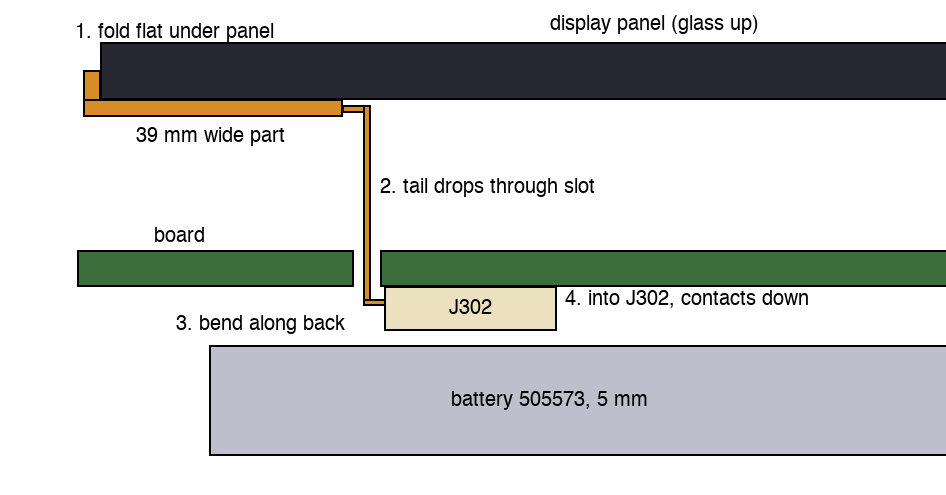
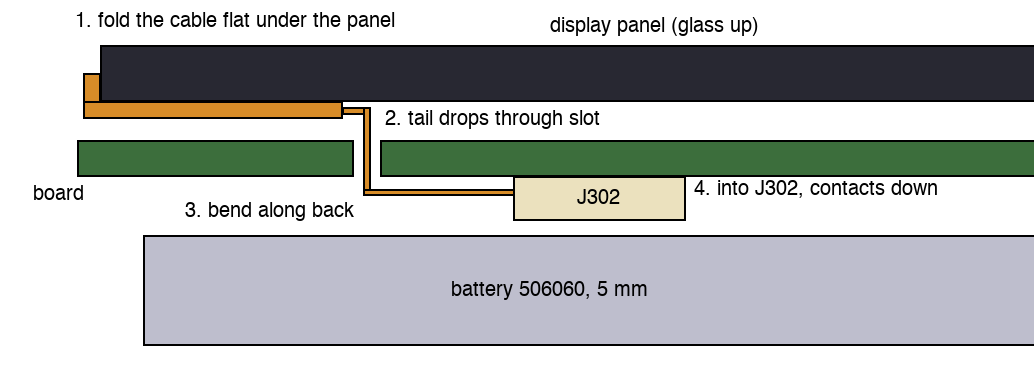
docs(hardware): describe the thinner layout, battery and reflow parts

diff --git a/hardware/README.md b/hardware/README.md
@@ -7,11 +7,11 @@ and pass ERC and DRC with schematic parity. Not yet fabricated.
 
 | Sheet | Contents |
 | --- | --- |
-| Power | USB4105 USB-C (5.1k CC pull-downs, USBLC6 ESD), BQ24074 1S LiPo charger with power path (1 A charge, 1.5 A input), soft power latch, TLV75533 3.3 V, TPS628438 buck to 2.0 V feeding two TPS7A2018 1.8 V LDOs (digital `+1V8`, analog `+1V8A`), battery solder pads plus an optional side-entry JST-PH |
+| Power | USB4105 USB-C (5.1k CC pull-downs, USBLC6 ESD), BQ24074 1S LiPo charger with power path (1 A charge, 1.5 A input), soft power latch, TLV75533 3.3 V, TLV62569 buck to 2.0 V feeding two TPS7A2018 1.8 V LDOs (digital `+1V8`, analog `+1V8A`), battery solder pads plus an optional side-entry JST-PH |
 | MCU | STM32U575ZIT6Q (SMPS variant, 2.2 uH on VLXSMPS), 16 MHz crystal for USB DFU, decoupling, BOOT0 pull-down, NRST cap, battery and VBUS sense dividers, ten buttons |
 | Peripherals | Hirose DM3AT microSD on SDMMC1 4-bit with 47k pull-ups, Newhaven NHD-2.4-240320AF-CSXP 2.4in IPS panel on a 40-pin FH12 on the back, 2N7002 backlight switch |
 | Wireless | ESP32-MINI-1U (Bluetooth Classic A2DP, BLE, 2.4 GHz WiFi) on the back, own TLV75733 3.3 V regulator switched by the MCU, U.FL to a stick-on antenna |
-| Audio | Two CS43131 (I2C 0x30 and 0x31), shared 22.5792 MHz 1.8 V oscillator for MCLK, PCA9306 I2C shifter, TXS0102 shifters on I2S, three TMUX4827 output switches, SJ1-3524N 3.5 mm and PJ-4450 4.4 mm jacks |
+| Audio | Two CS43131 (I2C 0x30 and 0x31), shared 22.5792 MHz 1.8 V oscillator for MCLK, PCA9306 I2C shifter, TXS0102 shifters on I2S, four TMUX4819 output switches, SJ1-3524N 3.5 mm and PJ-4450 4.4 mm jacks on the back |
 
 ## Pin map
 
@@ -35,6 +35,7 @@ Kept as close to the current firmware (`src/main.rs`) as possible.
 | DAC reset control | PE3 | inverted through Q401: low releases reset, high or floating holds it |
 | I2C1 SCL SDA | PB8 PB9 | |
 | JACK_SEL | PG0 | low = 3.5 mm |
+| Output switch enable | PG3 | SW_EN, high turns on all four TMUX4819, low mutes both jacks |
 | Jack detect 3.5 mm, 4.4 mm | PG1, PG2 | |
 | USB DM DP, VBUS sense | PA11 PA12, PA9 | |
 | Battery sense | PA0 | VBAT / 2 |
@@ -59,7 +60,8 @@ plugged in, firmware should turn the screen off and sleep.
 
 The BQ24074 runs the system from USB and charges the battery at the same
 time (R103 890 ohm sets 1.0 A, R105 1.1k sets a 1.5 A input limit, R111 10k
-stands in for a thermistor). The TPS628438 buck turns the battery into 2.0 V,
+stands in for a thermistor). The TLV62569 buck (232k/100k divider, 2.2 uH)
+turns the battery into 2.0 V,
 and both 1.8 V LDOs run from that, so they only drop 0.2 V instead of 2 V.
 
 ### Battery
@@ -72,31 +74,35 @@ and both 1.8 V LDOs run from that, so they only drop 0.2 V instead of 2 V.
 
 Screen off, 0.1 mW per channel into wired headphones, from datasheet typicals
 (Cirrus Table 3-19 for the DACs, Espressif's measured 101 mA for ESP32 A2DP
-streaming). The screen adds about 36 mA. Bluetooth sets the battery: 2.5 Ah
-gives about 20 h on Bluetooth, 62 h balanced and 105 h on 3.5 mm, and charges
-in about 2.5 to 3 hours at 1 A. Measure a real board before buying cells in
-bulk.
+streaming). The screen adds about 36 mA. Bluetooth sets the battery:
 
-The cell is a **505573** LiPo pouch: 5.0 x 55 x 73 mm bare, about 76 mm long
-with its protection board, 3.7 V 2500 mAh. It is a stock size sold by many
-makers with a JST-PH 2.0 plug, for example the AKZYTUE 505573 on Amazon, YDL,
-or THOR-505573 as a bare cell for production. Buy one with a protection board
-(PCM). The BQ24074 has no cell protection of its own.
+| Cell | Bluetooth | 4.4 mm | 3.5 mm |
+| --- | --- | --- | --- |
+| 2000 mAh | about 15 to 16 h | about 50 h | about 85 h |
+| 2500 mAh (if the rating is honest) | about 19 to 20 h | about 62 h | about 105 h |
 
-It lies flat on the back of the board, between the four corner screws,
-covering everything from x -27.5 to +27.5 and y -38 to +38. The board's back
-parts are flat under it: the tallest is the ESP32 at 2.4 mm, so the cell sits
-0.3 mm below that, from Z -2.7 to -7.7. A 0.1 mm Kapton sheet between cell and
-parts is a good idea. Fix it with double-sided foam tape, about 0.5 mm, which
-also takes up the gap. The enclosure needs at least 7.7 mm behind the board
-face for it, plus the foam and any swelling allowance (keep 0.5 mm).
+It charges in about 2 to 2.5 hours at 1 A. Measure a real board before buying
+cells in bulk.
 
-The protection board end faces the bottom. Solder its wires to J103 in the
-left margin, or for a cell with a JST-PH plug fit J102, which sits below the
-battery on the bottom margin with its opening toward the centre. Check the
-plug's polarity against J102 pin 1 (VBAT) before connecting: cheap cells
-differ. A thinner option, 3.8 x 56 x 77 mm (385677, also 2500 mAh), does not
-fit between the screws, so it would need the screw bosses moved.
+The cell is a **506060**-size LiPo pouch: 5.0 x 60 x 60 mm bare, about 62 mm
+long with its protection board, 3.7 V. Makers rate this size 2000 mAh (for
+example DNK, HNF and the Tokopedia/Websong listings of the 505060 and 506060)
+and a few sell it as 2500 mAh (Bihuade 506060 on Amazon, with a JST-PH 2.0
+plug). Plan on 2000 mAh unless a datasheet shows the higher figure. Buy one
+with a protection board (PCM). The BQ24074 has no cell protection of its own.
+
+It lies flat on the back of the board, x -30.5 to +30.5 and y -37 to +25:
+between the two bottom screw bosses, and below the two jacks, which sit on
+the back along the top edge and are as deep as the battery. Under the cell
+the deepest part is the display connector J302 at 2.1 mm, so the cell sits
+from Z -2.7 to -7.7. Put a 0.1 mm Kapton sheet between cell and parts and fix
+it with thin foam tape. The enclosure needs at least 7.7 mm behind the board
+face, plus the foam and a swelling allowance (keep 0.5 mm).
+
+The protection board end faces the bottom. Solder its wires to J103 below the
+battery, or for a cell with a JST-PH plug fit J102 next to it (opening to the
+right). Check the plug's polarity against J102 pin 1 (VBAT) before
+connecting: cheap cells differ.
 
 ## Bluetooth and WiFi
 
@@ -141,11 +147,14 @@ flat behind the panel, and the board is laid out for that:
    end first, the 0.3 mm tail drops through the 1.2 mm slot with room to
    spare.
 3. Turn the board over. Bend the tail flat against the back toward J302,
-   which is right next to the slot (its opening 0.2 mm from the slot edge).
+   whose opening is 6 mm from the slot.
 4. Flip up J302's black actuator, push the tail in until it stops (contacts
    down, toward the board), and press the actuator closed.
 5. Turn the board back over and lay the panel down onto the front shell. The
-   2 mm of spare length bows in the 6.9 mm gap under the panel.
+   2 mm of spare length bows in the 1.8 mm gap under the panel.
+
+Nothing taller than an 0603 part sits on the front under the folded cable
+(x -33.2 to -21.1). The 1.8 V regulators and the buck sit on the back there.
 
 J302 is a bottom-contact Hirose FH12-40S-0.5SH. After the fold and the turn,
 the cable's contacts face the board, and its pin order arrives mirrored, so
@@ -166,10 +175,13 @@ There is no debug header. Use `defmt` logging over USB for debugging.
 
 ## Audio routing
 
-JACK_SEL drives all three TMUX4827 SEL pins (low selects SxA, high selects SxB).
+Four TMUX4819 (one SPDT each, WSON-8 2 x 2 mm, 0.16 ohm) do the routing.
+JACK_SEL drives all four SEL pins (low selects SA, high selects SB). SW_EN
+(PG3) drives all four EN pins: low turns every switch off, which mutes both
+jacks, for example while the DACs start up.
 
-* Low: U406 passes DAC1 HPOUTA/HPOUTB to the 3.5 mm tip and ring. DAC1 runs in stereo.
-* High: U407 passes DAC1 outputs to 4.4 mm L+ and L-, U408 passes DAC2 outputs to R+ and R-. Both DACs run in mono (differential) mode, set by the register sequence in datasheet section 5.12.
+* Low: U406 and U407 pass DAC1 HPOUTA and HPOUTB to the 3.5 mm tip and ring. DAC1 runs in stereo. U408 and U409 are open, so DAC2 is disconnected.
+* High: U406 and U407 pass DAC1 to 4.4 mm L+ and L-, U408 and U409 connect DAC2 to R+ and R-. Both DACs run in mono (differential) mode, set by the register sequence in datasheet section 5.12.
 
 Both DAC resets are held low by Q401 until firmware drives PE3 low, and R448
 pulls `DAC_RESET` to VSYS, so VP is up before reset releases as the datasheet
@@ -189,8 +201,20 @@ dedicated In2 trace that joins `GND` only at R453 (0 ohm).
 | B.Cu | signals, microSD, display and battery connectors, GND fill |
 
 Rules are in `ltplayer.kicad_pro` and sized for JLCPCB 4-layer: 0.1 mm
-track and space minimum, 0.127 mm clearance, 0.45/0.25 mm vias. The three
-TMUX4827 DSBGA parts need 0.3/0.15 mm via-in-pad (filled and capped, POFV).
+track and space minimum, 0.127 mm clearance, 0.45/0.25 mm vias. No via-in-pad
+or blind vias.
+
+### Parts for reflow
+
+Every resistor and capacitor is 0603 or bigger (109 at 0603, 7 at 0805), and
+so are both inductors. The finest-pitch parts are the two CS43131 DACs (QFN
+0.4 mm, no larger package exists) and the parts at 0.5 mm pitch: the
+STM32U575 (LQFP-144), the BQ24074 (QFN 3 x 3), the four TMUX4819 (WSON 2 x 2)
+and the display connector. Everything else has leads at 0.65 mm or wider:
+SSOP-8 level shifters (PCA9306DCTR, TXS0102DCTR), SOT-23 regulators
+including the TLV62569 buck, a 3.2 x 2.5 mm crystal and MCLK oscillator
+(Epson SG-8018CE class, 1.8 V, 22.5792 MHz). A stencil (0.12 mm) and reflow
+handle all of it.
 `ltplayer.kicad_dru` relaxes hole clearance inside the USB-C footprint only,
 where GCT's land pattern puts the GND pads 0.194 mm from the plastic pegs.
 
@@ -207,16 +231,16 @@ the body outlines of the edge parts. Origin at the board centre, +X right,
 | Display panel | x -32.41 to +27.50, y -4.30 to +38.50 | 59.91 x 42.80 x 2.55 |
 | Picture area | x -24.48 to +24.48, y -1.26 to +35.46 | 48.96 x 36.72, the window, centred |
 | Display cable slot | x -20.91 to -19.71, y +6.35 to +27.85 | through the board, rounded ends |
-| 3.5 mm jack J401 | x = -15.0, top edge | board notch 4.4 wide, 1.4 deep |
-| 4.4 mm jack J402 | x = +15.0, top edge | body overhangs the edge by 1.6 mm |
+| 3.5 mm jack J401 | x = -15.0, top edge, back | board notch 4.4 wide, 1.4 deep, opening centre Z -2.6 |
+| 4.4 mm jack J402 | x = +15.0, top edge, back | body overhangs the edge by 1.6 mm, opening centre Z -3.3 (estimate) |
 | USB-C J101 | x = 0, bottom edge, front | |
 | microSD J301 | x = +13.5, bottom edge, back | |
 | Power, vol+, vol- | x = +31.15, y = +31.5, +17.5, +7.5 | right edge, side push |
 | D-pad | centre (0, -24), up (0, -15.5), down (0, -32.5), left (-8.5, -24), right (+8.5, -24) | KMR2, play/pause in the middle |
 | Back, menu | (-19, -10), (+19, -10) | KMR2 |
-| Battery | x -27.5 to +27.5, y -38 to +38 | back, 55 x 76 x 5.0, Z -7.7 to -2.7 |
-| Battery pads J103, JST-PH J102 | (-30.8, -30.0), (-21.0, -41.6) | back, outside the battery |
-| Display connector J302 | (-15.1, +17.1) | back, opening faces the cable slot |
+| Battery | x -30.5 to +30.5, y -37 to +25 | back, 61 x 62 x 5.0, Z -7.7 to -2.7 |
+| Battery pads J103, JST-PH J102 | (-23.0, -41.0), (-14.5, -41.6) | back, below the battery |
+| Display connector J302 | (-9.3, +17.1) | back, opening faces the cable slot |
 | ESP32 U501 | (+18.0, -10.5) | back, 13.2 x 13.5 x 2.4, U.FL at its top left corner |
 
 ### 3D
@@ -231,24 +255,25 @@ only the last block of it, to make them.
 | Item | Z (mm) |
 | --- | --- |
 | Battery back face | -7.7 |
+| Back of the 4.4 mm jack (estimate) | -6.6 |
+| Back of the 3.5 mm jack | -5.6 |
 | Back of the optional JST-PH battery connector | -4.94 |
 | Battery front face | -2.7 |
 | Back of the ESP32 module | -2.4 |
 | Board back face, front face | 0, 1.6 |
 | KMR2 button tops | 3.5 |
-| 3.5 mm jack body top | 7.09 |
-| 4.4 mm jack body top (estimate) | 8.2 |
-| Display panel back, glass front | 8.5, 11.05 |
+| Display panel back, glass front | 3.4, 5.95 |
 
-The panel sits 0.3 mm above the tallest part under it, which is the 4.4 mm
-jack. That height is an estimate, so the panel height is too. Measure a real
-jack, set `HEIGHT["J402"]` in `scripts/assembly.py`, and rerun it. If the jack
-is under 6.3 mm tall the 3.5 mm jack takes over and the glass drops to 9.94.
+Total from battery back to glass: 13.65 mm (it was 18.75 mm with the jacks
+on the front). The panel sits 0.3 mm above the tallest part under it, the
+STM32 (LQFP-144, 1.5 mm). Both jacks are on the back, so their pins poke out
+of the front: trim them to 1 mm after soldering. The jacks are as deep as the
+battery, so they add nothing behind it.
 
-Five parts have no model in KiCad's library and are plain blocks named
-`placeholder`: the three side buttons (1.25 mm tall per Alps), the three
-TMUX4827 (0.5 mm) and the 4.4 mm jack. KKG publishes no height for the
-PJ-4450, so its 6.6 mm block is an estimate.
+Parts with no model in KiCad's library are plain blocks named `placeholder`:
+the three side buttons (1.25 mm tall per Alps), the four TMUX4819 (0.8 mm),
+the MCLK oscillator (0.8 mm) and the 4.4 mm jack. KKG publishes no height for
+the PJ-4450, so its 6.6 mm block is an estimate.
 
 ## Rebuilding the layout
 
@@ -268,7 +293,7 @@ scripts/route.sh   # 5 to 15 minutes
 | `rules.py` | design rules and net classes |
 | `plane_vias.py` | a via at every GND, +3V3, +1V8, VSYS and HP_GND pad |
 | `dsn2l.py` | presents the board to Freerouting as two layers without the plane nets |
-| `finish.sh` | imports the route, runs `trunk.py` (VSYS and HP_GND on In2), pours zones, removes leftovers, DRC |
+| `finish.sh` | imports the route, runs `trunk.py` (VSYS and HP_GND on In2), pours zones, removes leftovers, `nudge.py` (micron misses at stub vias), DRC |
 | `mech.py` | the DXF and CSV above |
 
 Needs Freerouting 2.5 and Java (`FREEROUTING` overrides the jar path) and the
@@ -278,7 +303,9 @@ KiCad Python at `~/code/pkg/mcp/kicad/venv`.
 
 * **Display cable**: J302 is bottom contact with the pin order mirrored (panel pin 1 on J302 pin 40), worked out from Newhaven's drawing. Check with a paper strip cut to the drawing (contacts marked) before ordering. If it comes out the other way, a top-contact FH12A-40S-0.5SH fits the same footprint area.
 * **Display slot**: check the cable folds and drops through the 1.2 mm slot without kinking, with the same paper mock-up.
-* **Battery**: confirm the real cell measures 55 x 76 mm or less with its protection board and wires, and the plug polarity matches J102.
+* **Battery**: confirm the real cell measures 61 x 62 x 5 mm or less with its protection board and wires, and the plug polarity matches J102.
+* **Jack openings**: the jacks now face out of the top edge just behind the board (centre about Z -2.6 and -3.3). Check the enclosure opening lines up with a real PJ-4450, whose height is still an estimate.
+* **MCLK oscillator**: the footprint is a generic 3.2 x 2.5 mm 4-pad oscillator. Pick a 1.8 V 22.5792 MHz part in that size (Epson SG-8018CE, SiTime SiT1602 class) and check its pad map: 1 OE, 2 GND, 3 OUT, 4 VDD.
 * **Charger heat**: 1 A from 5 V into a 3.7 V cell burns about 1.3 W in the BQ24074. It throttles itself if it gets hot, so the real charge time may be longer.
 * **Antenna**: try the stick-on antenna in the real case before ordering boards. Signal through the screen glass is weaker near the display's metal frame, so test a few spots.
 * **ESP32 footprint**: from Espressif's own KiCad library. Check it against the datasheet land pattern.
@@ -287,7 +314,6 @@ KiCad Python at `~/code/pkg/mcp/kicad/venv`.
 * **microSD**: the slot faces the bottom edge on the back. Confirm the card goes in where the enclosure leaves an opening.
 * **4.4 mm jack**: the PJ-4450 pin assignment is estimated from the drawing. Confirm against the part.
 * **Side buttons**: the SKSC peg hole spacing is scaled from the Alps drawing. Confirm against a part.
-* **Via-in-pad**: confirm JLCPCB accepts 0.15 mm drills with POFV under the TMUX4827.
 * **3.5 mm detect**: the SJ1-3524N tip switch reads through a 1M pull-up, so detect polarity flips against the 4.4 mm jack.
 * **DAC RESET** comes from VSYS through R448. Check the VIH spec at low battery.
 
@@ -300,3 +326,4 @@ KiCad Python at `~/code/pkg/mcp/kicad/venv`.
 * An "update" menu item that jumps to the system bootloader for USB DFU.
 * Bluetooth: SAI2 block A as I2S master to the ESP32, USART3 command link, PG14 to power the ESP32, and an ESP32 firmware (ESP-IDF A2DP source) that the MCU can flash over USART3.
 * SAI1 pins, the second DAC at 0x31, mono mode switching and the 3.5 mm detect polarity in `src/jack.rs`.
+* Output switches: drive PG3 (SW_EN) high to unmute once the DACs are running, low before switching JACK_SEL or powering down.
